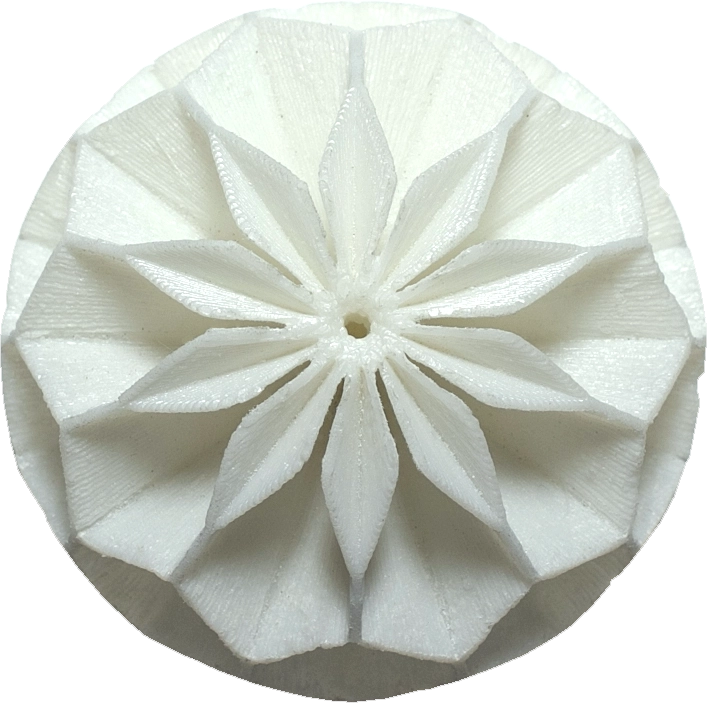
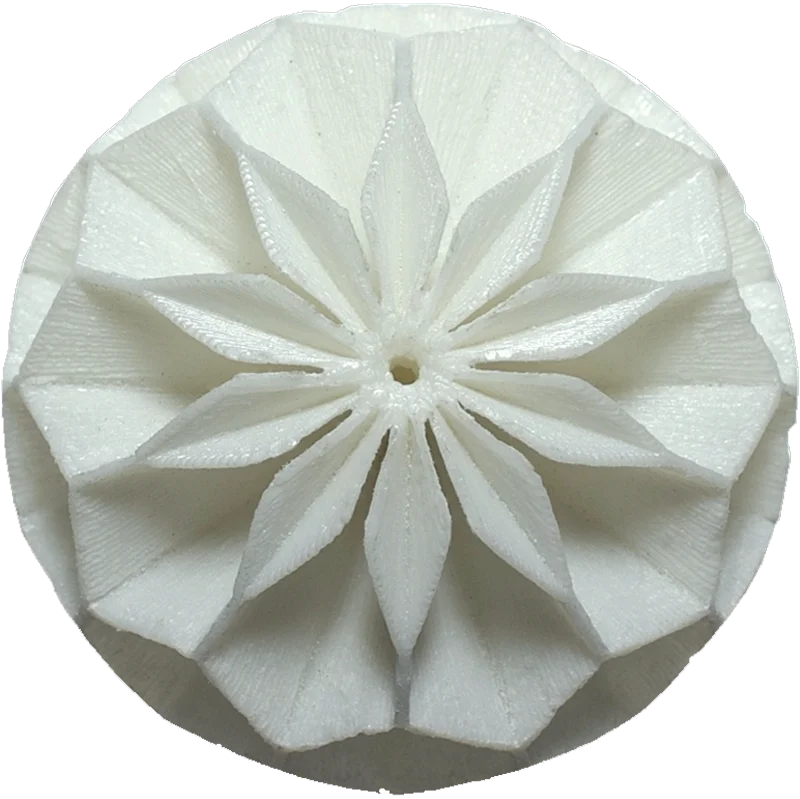
correction

diff --git a/script.js b/script.js
@@ -575,7 +575,14 @@ function renderProjectContent(project, container) {
         } else if (block?.type === "video" && block.src) {
             container.appendChild(createVideo(block));
         } else if (block?.type === "video-row" && Array.isArray(block.videos)) {
-            const videos = block.videos.map(createVideo).filter(Boolean);
+            const videos = block.videos.map((entry) => {
+                if (entry !== null) return createVideo(entry);
+                // Explicit null entries reserve a column without loading a video.
+                const slot = document.createElement("div");
+                slot.classList.add("project-video-slot");
+                slot.setAttribute("aria-hidden", "true");
+                return slot;
+            }).filter(Boolean);
             for (let index = 0; index < videos.length; index += 3) {
                 const row = document.createElement("div");
                 row.classList.add("project-video-row");

diff --git a/index.html b/index.html
@@ -33,7 +33,7 @@
          while we are developing the website.
     -->
 
-    <link rel="stylesheet" href="style.css?v=41">
+    <link rel="stylesheet" href="style.css?v=42">
 
 </head>
 
@@ -142,7 +142,7 @@
 
     <script
         type="module"
-        src="script.js?v=29"
+        src="script.js?v=30"
     ></script>
 
 

diff --git a/style.css b/style.css
@@ -597,6 +597,10 @@ body.is-about #canvas {
    ========================================================= */
 
 @media (max-width: 600px) {
+    .project-video-slot {
+        display: none;
+    }
+
     :root {
         --project-side-margin: var(--project-side-margin-mobile);
     }

diff --git a/projects/tamaco/project.js b/projects/tamaco/project.js
@@ -169,6 +169,7 @@ export default {
                     src: "https://player.vimeo.com/video/250455103?title=0&byline=0&portrait=0",
                     title: "MapeoPP"
                 },
+                    null
             ]
         }
     ]

diff --git a/README.md b/README.md
@@ -4,3 +4,7 @@ somuchfun website
 Project pages display: title, details, description, material, then credits.
 In each project's `project.js`, the `content` array controls the order of all
 images, videos, and rows, which appear after the description.
+
+In a `video-row`, use `null` in the `videos` array to reserve an empty column,
+for example `videos: [{ src: "https://player.vimeo.com/video/250455103" }, null]`.
+Empty slots are hidden on mobile, where videos stack vertically.
